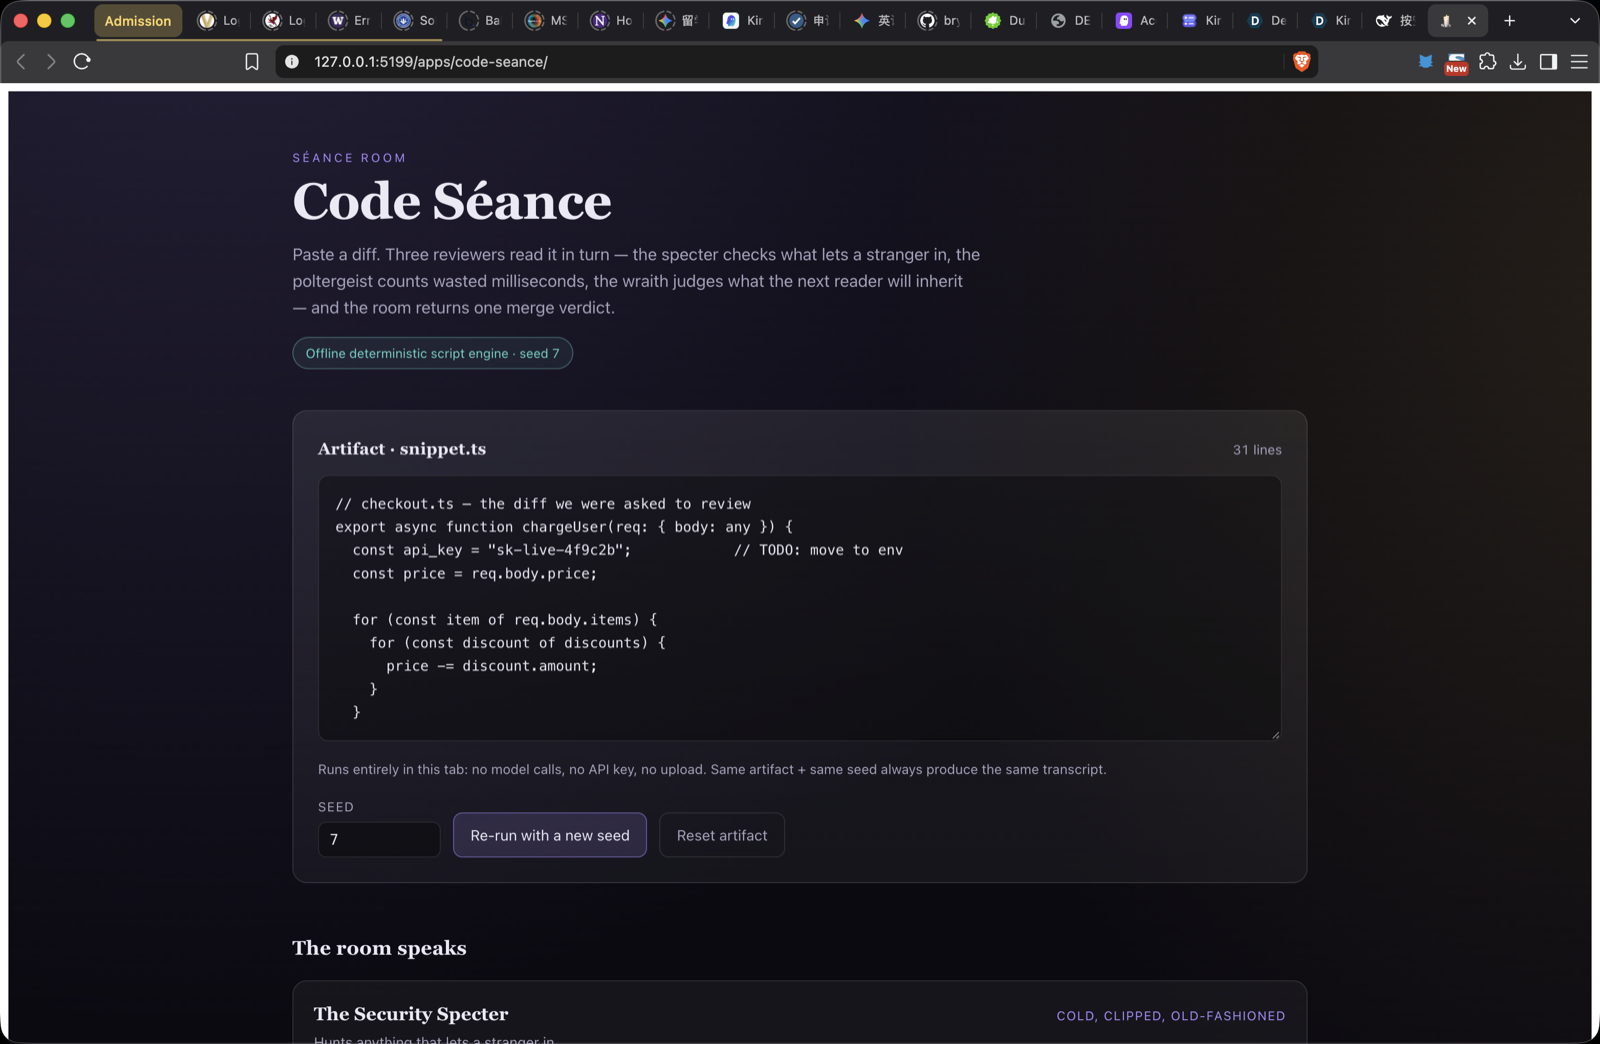
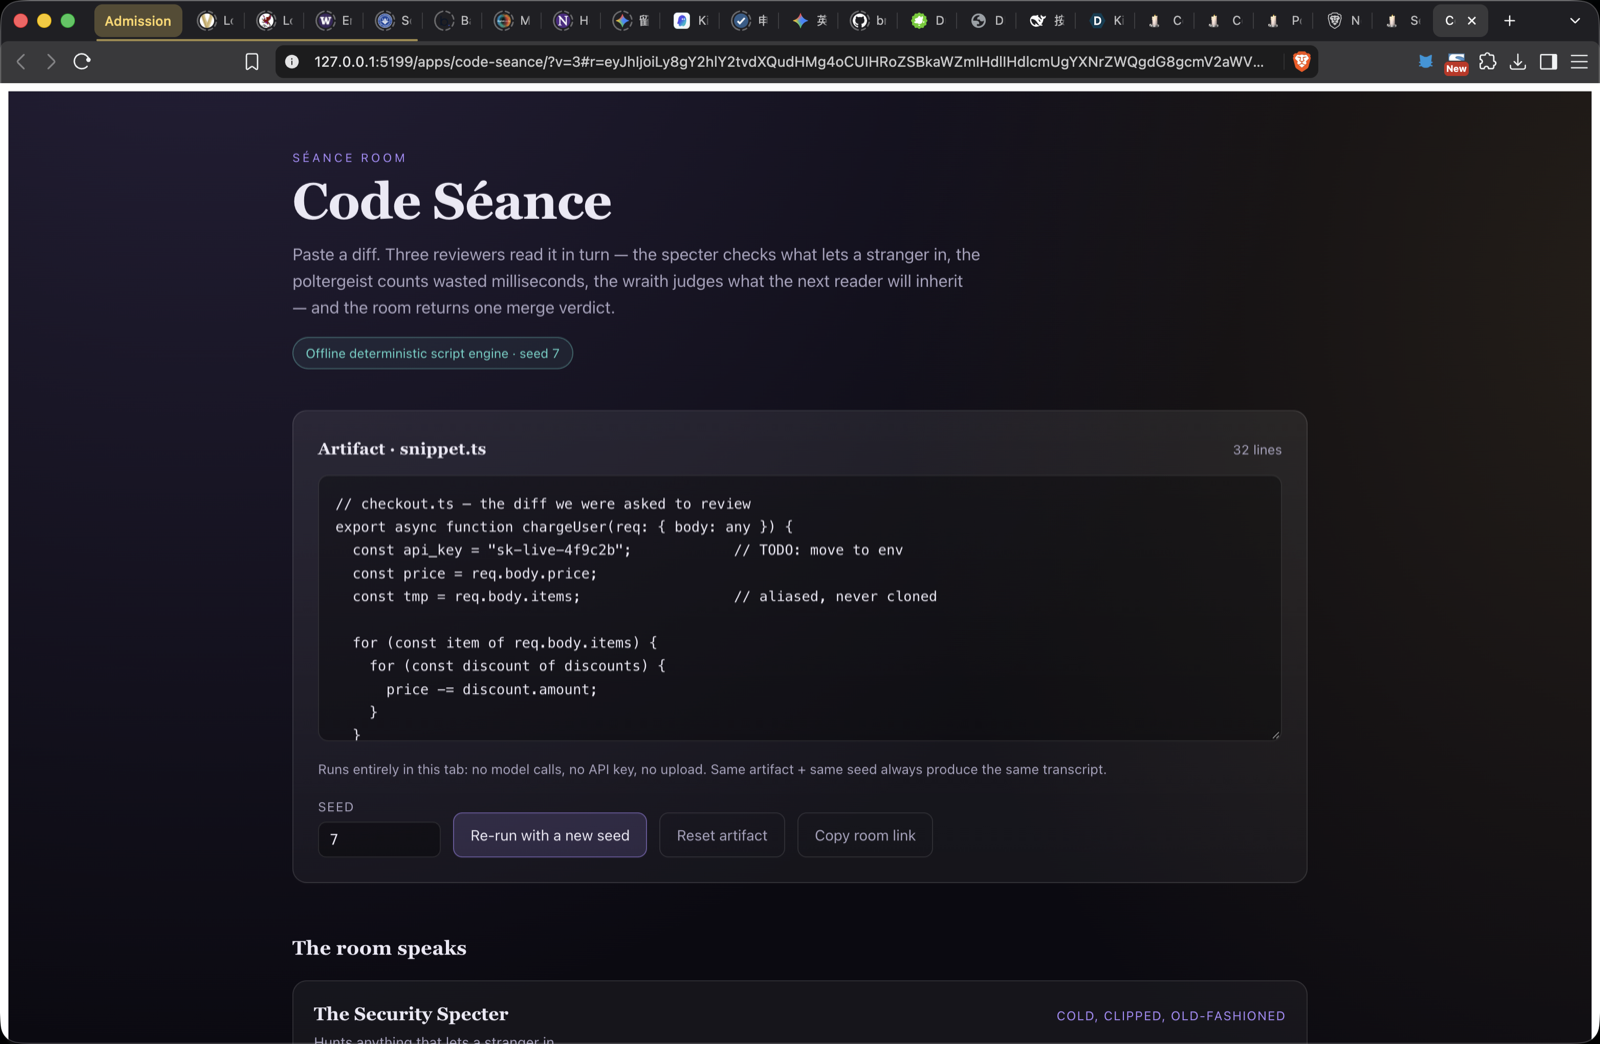
feat: custom Kiro agent (room-auditor) + fix the dead lenses it found
- .kiro/agents/room-auditor.json — read-only auditor, tools limited to fs_read/grep/glob/thinking
- it found 2 dead lenses (style-wraith/naming, archivist/contradictions) that could never fire
- samples now exercise them; second audit returns PASS
- verdict 84 -> 86, findings 14 -> 15; screenshots and video script updated
- audit transcripts saved under docs/

diff --git a/apps/code-seance/src/sample.ts b/apps/code-seance/src/sample.ts
@@ -3,6 +3,7 @@ export const SAMPLE_ARTIFACT = `// checkout.ts — the diff we were asked to rev
 export async function chargeUser(req: { body: any }) {
   const api_key = "sk-live-4f9c2b";            // TODO: move to env
   const price = req.body.price;
+  const tmp = req.body.items;                  // aliased, never cloned
 
   for (const item of req.body.items) {
     for (const discount of discounts) {

diff --git a/template/src/sample.ts b/template/src/sample.ts
@@ -2,6 +2,6 @@
 export const SAMPLE_ARTIFACT = `# release notes — v0.3
 Shipped the new billing screen.
 Billing retries: TODO, possibly handled by the queue, assumed once per hour.
-Rollback plan: unclear.
+Rollback plan: unclear, however the old handler is still deployed.
 Contact: placeholder@example.com
 `;

diff --git a/docs/KIRO_USAGE.md b/docs/KIRO_USAGE.md
@@ -11,6 +11,7 @@
 | **Kiro spec files** (`.kiro/specs/agent-room/`) | Requirements → design → tasks, written before the code | `.kiro/specs/agent-room/{requirements,design,tasks}.md` |
 | **Kiro steering** (`.kiro/steering/`) | Always-on project memory for product, tech and structure | three files, `inclusion: always` |
 | **Kiro hooks** (`.kiro/hooks/`) | Run tests and typecheck on file save | `test-on-save.json`, `typecheck-on-save.json` |
+| **Custom agent** (`.kiro/agents/room-auditor.json`) | Read-only room auditor: checks personas against the spec, finds "dead lenses" that can never fire, verifies scoring.yaml | `docs/kiro-cli-room-auditor.log` — found 2 dead lenses, re-run after the fix returned PASS |
 | MCP / powers | not used | — |
 
 The repo keeps `/.kiro` at its root and it is explicitly **not** ignored — see the comment at the
@@ -86,6 +87,28 @@ before and after the fix, because the sample never produced the out-of-order cas
 
 PBT was the right tool here because the domain is a pure function over generated data: there is
 no network, no clock, no database — so a generated input is as valid as a hand-written one.
+
+## 5b. The custom agent (`room-auditor`)
+
+Kiro CLI picks up project-local agents from `.kiro/agents/`, so the audit is reproducible by
+anyone who clones the repo:
+
+```bash
+kiro-cli chat --agent room-auditor --no-interactive --model auto "Audit the repository now."
+```
+
+The agent is deliberately constrained: `tools: [fs_read, grep, glob, thinking]` and a prompt that
+says **read-only, never invent a file or line, end with PASS or FAIL**. That constraint is what
+makes its output usable as evidence rather than as another opinion.
+
+It found something no test could: a **dead lens**. `style-wraith` had a `naming` lens looking for
+`tmp`, `data2`, `copy`, `var ` — and the sample artifact contained none of them, so that reviewer
+had a lens that could never fire and the demo silently showed two lenses instead of three. The
+template had the same problem with its `contradictions` lens.
+
+The fix was not to delete the lens but to make the sample *exercise* it — a real `const tmp =
+req.body.items` in the diff, and a `however` in the release notes. A second run returned PASS.
+Finding counts went from 14 to 15, and the verdict from 84 to 86 / Blocked.
 
 ## 6. What the Kiro CLI audit changed
 

diff --git a/docs/VIDEO_SCRIPT.md b/docs/VIDEO_SCRIPT.md
@@ -13,7 +13,7 @@ python3 -m http.server 5199 --directory dist
 Open `http://127.0.0.1:5199/` at 1440×900, browser zoom 100%, hide the bookmarks bar, and close
 every other tab. Record at 1080p.
 
-Set the room seed to **7** so the transcript matches these notes (Code Séance: 84 / Blocked;
+Set the room seed to **7** so the transcript matches these notes (Code Séance: 86 / Blocked;
 Postmortem Séance: 81 / Blocked).
 
 ---
@@ -59,15 +59,16 @@ line count change.
 **Shot 4 (1:05):** scroll to the Perf Poltergeist and Style Wraith cards, slower.
 
 **Voice-over:**
-> "The Poltergeist counts wasted milliseconds — nested loops, a blocking `await` inside a loop.
-> The Wraith judges what the next reader inherits: a swallowed `catch`, a `console.log`, and a
-> `TODO` that outlived its author."
+> "The Poltergeist counts wasted milliseconds — nested loops, a blocking `await` in the middle of a
+> function. The Wraith judges what the next reader inherits: a swallowed `catch`, a `console.log`,
+> a `TODO` that outlived its author, and a `tmp` alias nobody needed."
+
 
 **Shot 5 (1:18):** scroll to the verdict panel.
 
 **Voice-over:**
-> "Then the room does the thing a chat log cannot: it aggregates. Fourteen findings become one
-> score — 84 out of 100 — and one decision: blocked."
+> "Then the room does the thing a chat log cannot: it aggregates. Fifteen findings become one
+> score — 86 out of 100 — and one decision: blocked."
 
 **Shot 6 (1:28):** click **Re-run with a new seed**.
 
